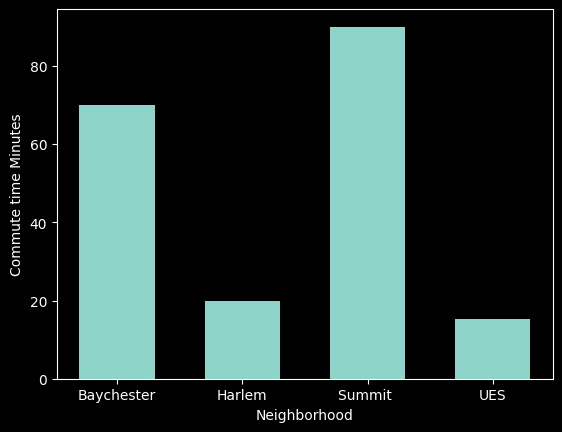
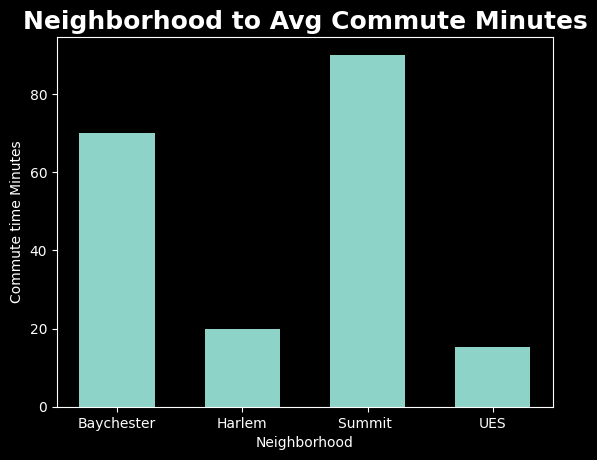
commit

Changed region(s): [[0.0, 0.0, 0.9982, 0.9931]]

diff --git a/main.py b/main.py
@@ -12,7 +12,7 @@ print(df.info)
 # Group by neighborhood and compute the average
 avg_df = df.groupby('Neighborhood')['Commute Time Minutes'].mean()
 plt.bar(avg_df.index,avg_df.values, width= 0.6)
-
+plt.title('Neighborhood to Avg Commute Minutes', fontsize=18, fontweight='bold')
 plt.xlabel('Neighborhood')
 plt.ylabel('Commute time Minutes')
 plt.savefig('barchart.png', bbox_inches='tight')
